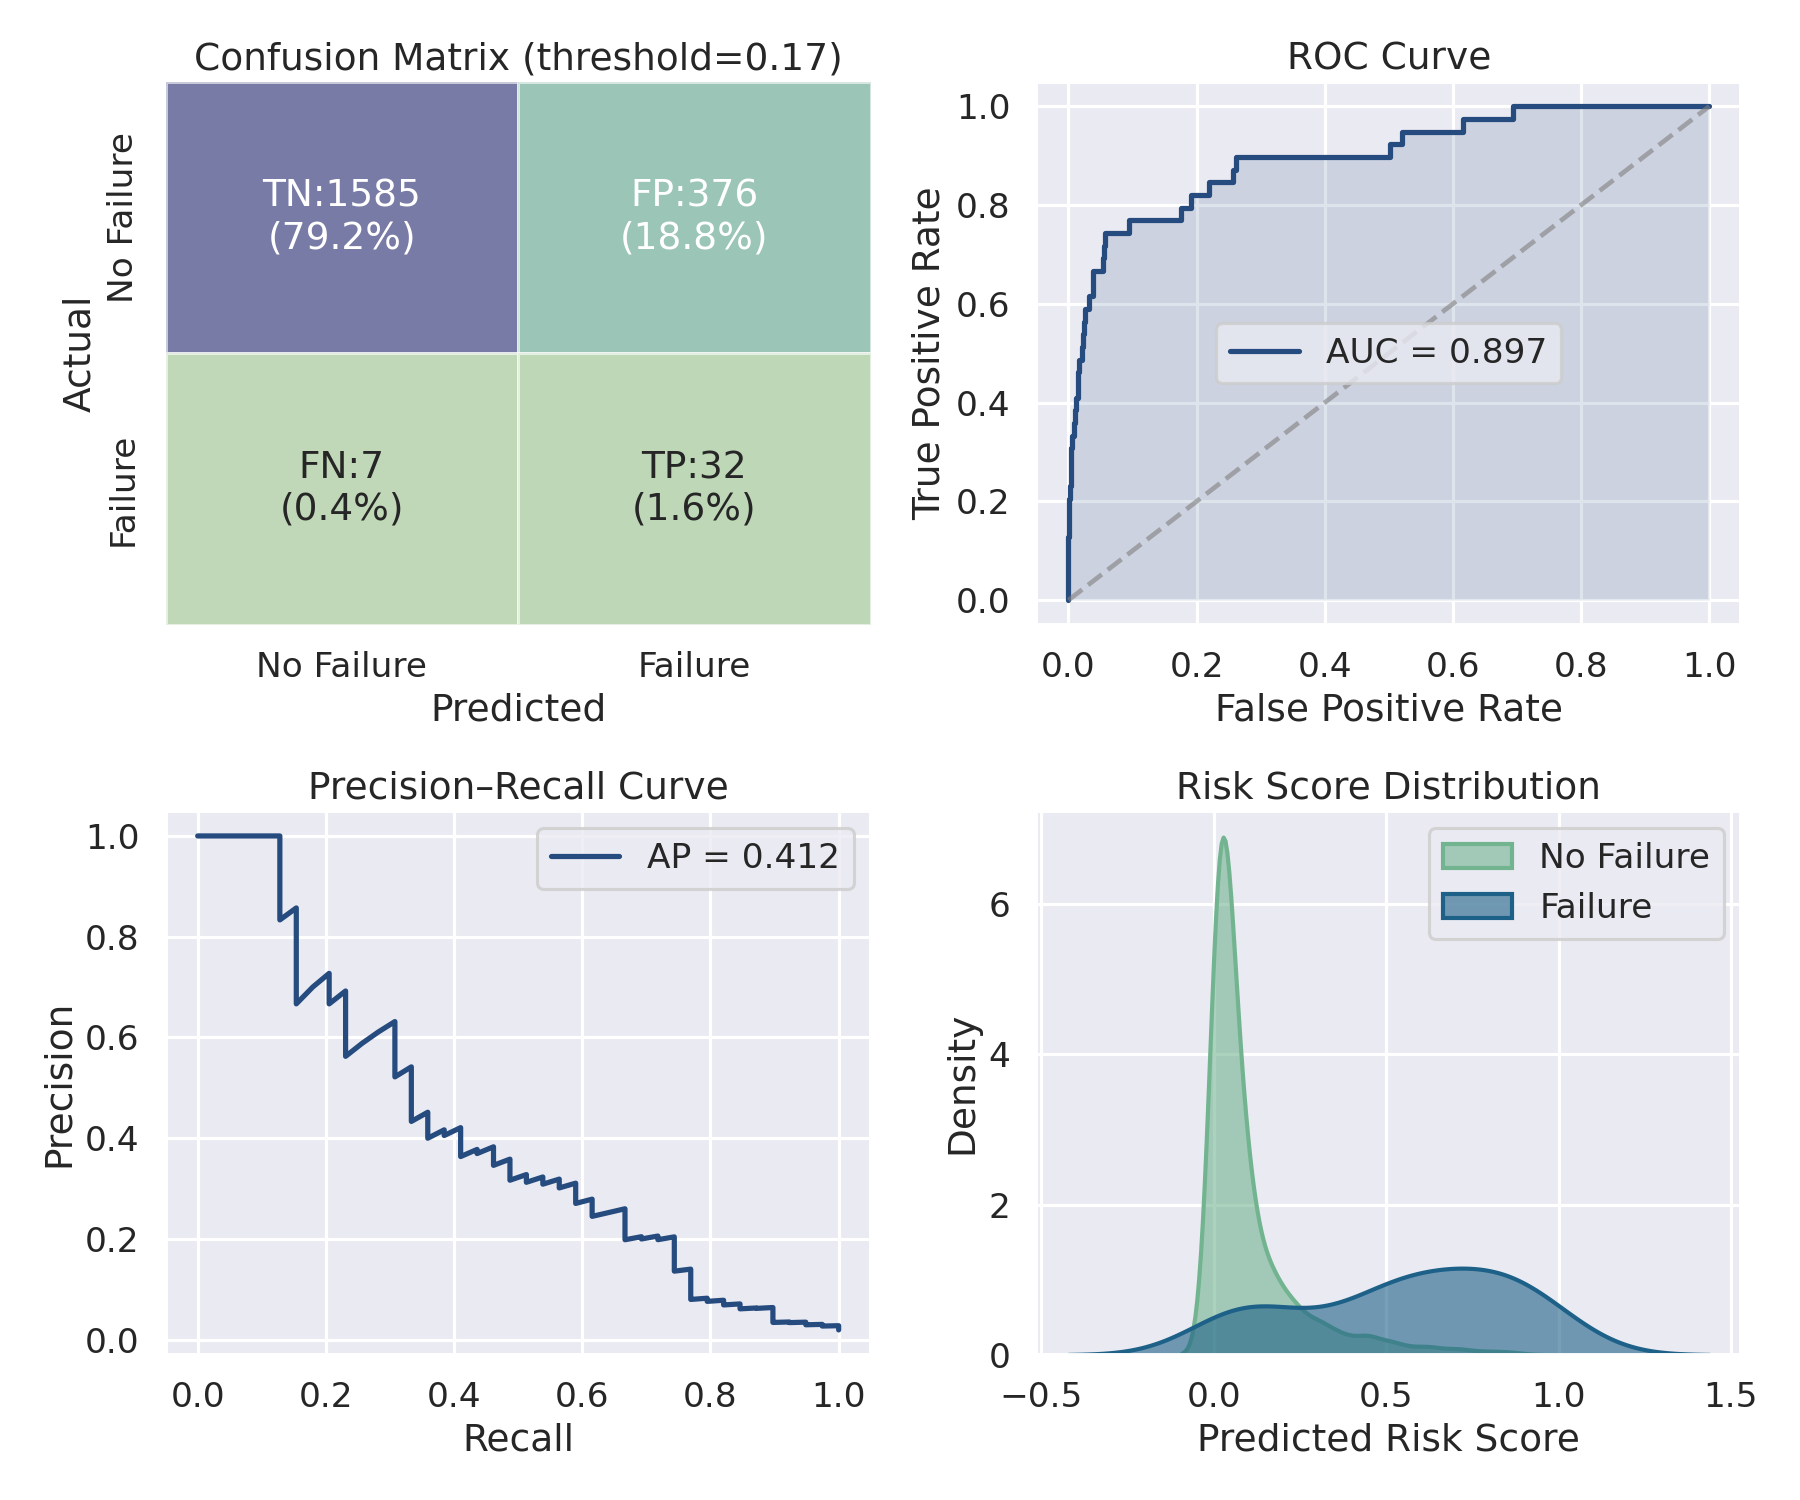
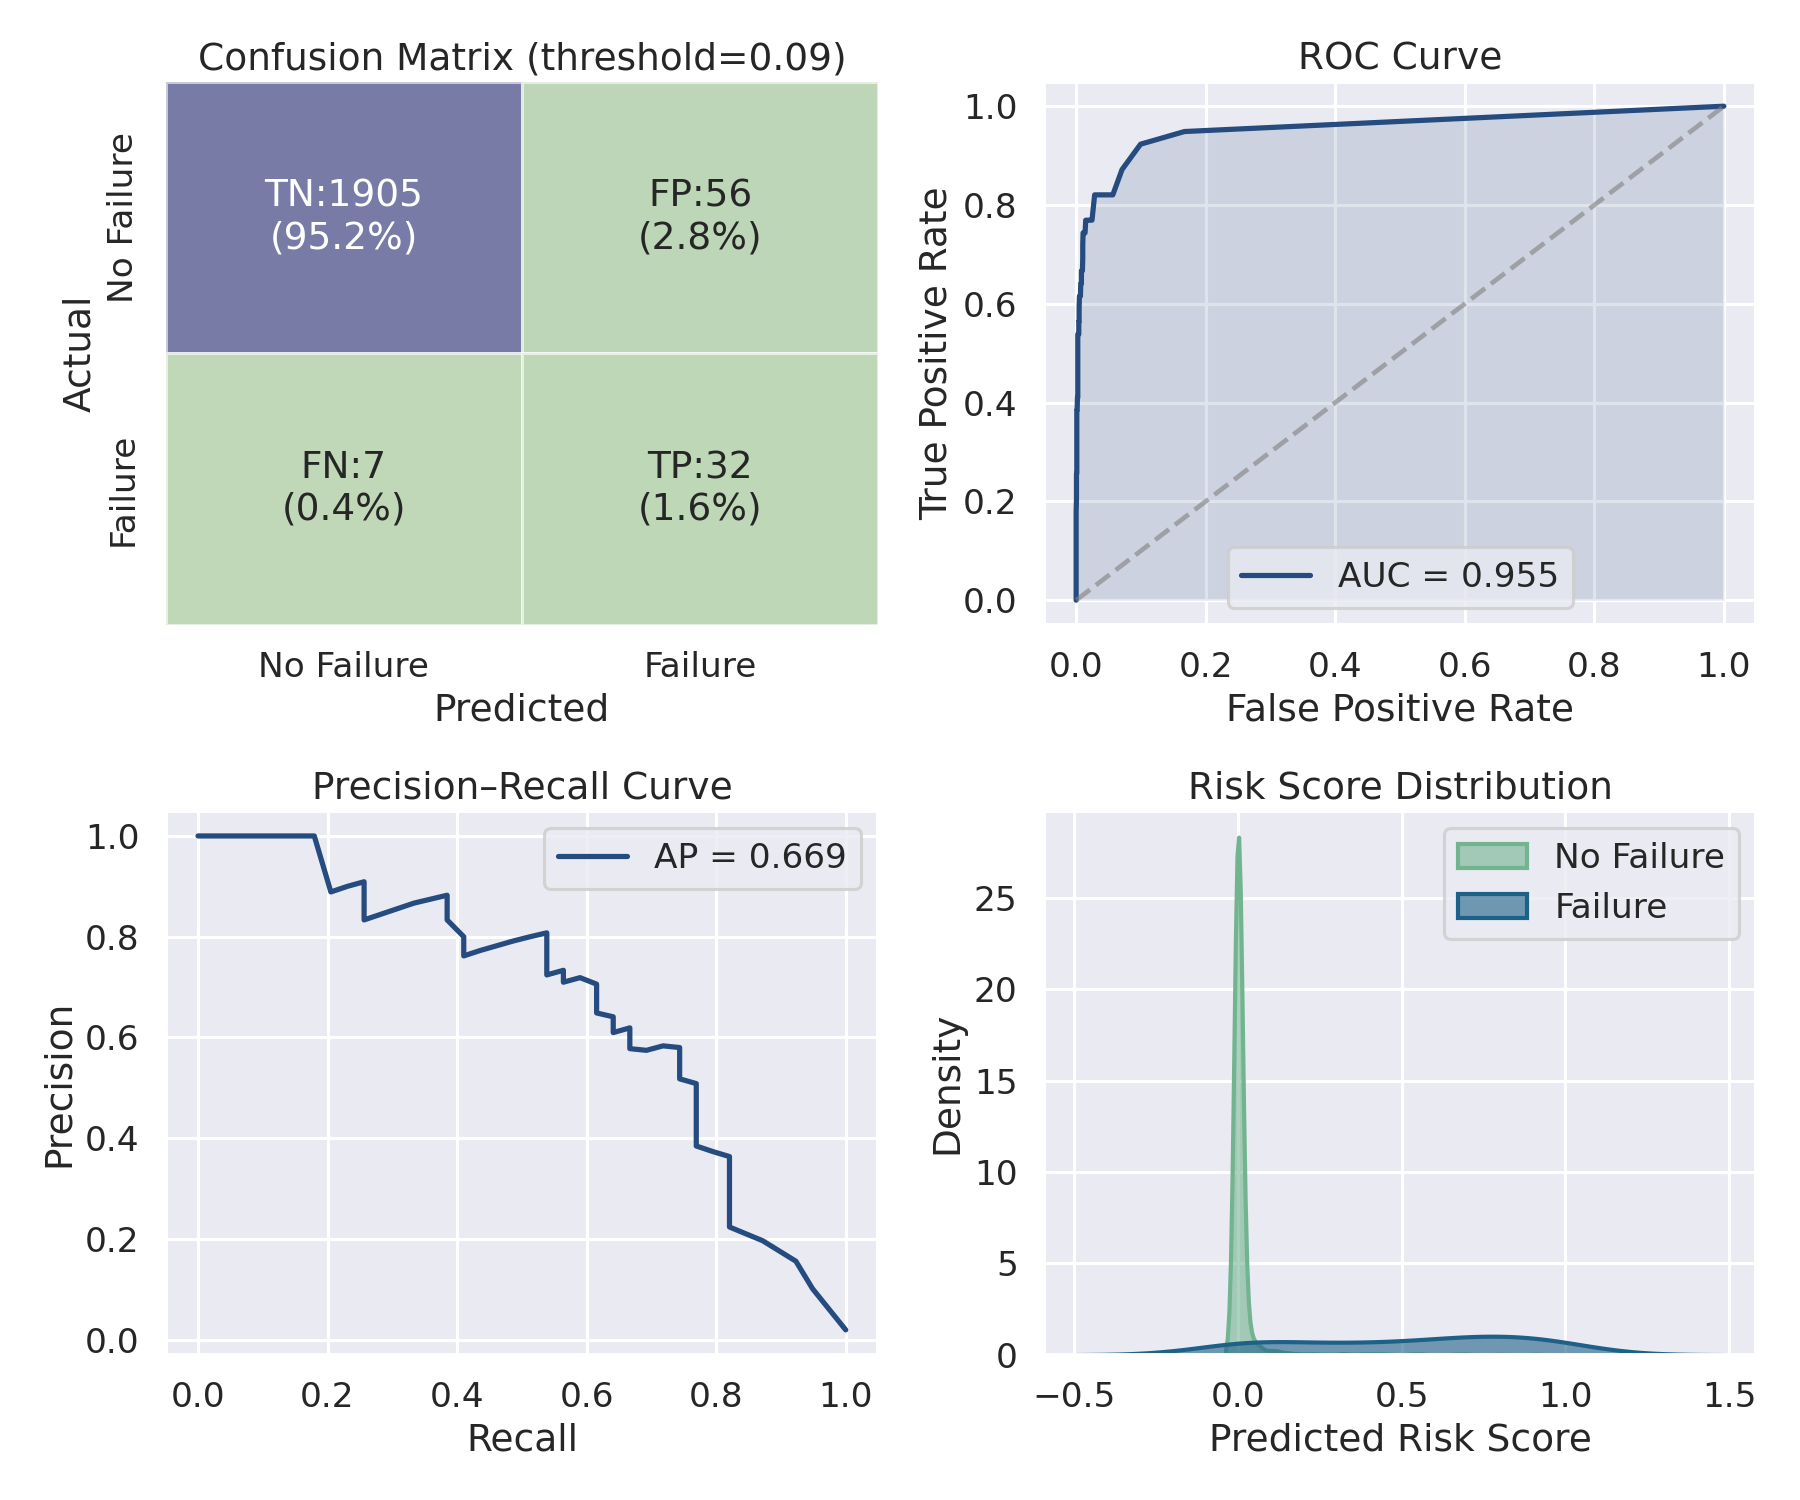
rough layout of the FailureClassificationModel

diff --git a/main.py b/main.py
@@ -1,4 +1,5 @@
 from sklearn.linear_model import LogisticRegression
+from sklearn.ensemble import RandomForestClassifier
 from sklearn.model_selection import RandomizedSearchCV
 from sklearn.preprocessing import StandardScaler
 from sklearn.metrics import roc_curve, roc_auc_score, precision_recall_curve, average_precision_score,confusion_matrix , ConfusionMatrixDisplay
@@ -24,37 +25,53 @@ try:
 except:
     pass
 
-class LogisticClassifier:
-    def __init__(self):
-        self.y = None
-        self.x = None
-        self.y_pred = None
-        self.y_prob = None
-        self.filename = None
-    def dataset(self,filename: str ,target: str, ignore=None):
-        self.filename = filename.rstrip('.csv')
+def dataset(filename: str ,target: str, ignore=None, ):
+        filename_modified, _ = os.path.splitext(filename)
+        del _
         if ignore is None:
             ignore = []
 
         df = pd.read_csv(filename)
 
-        self.y = df[target].astype(int)
-        self.X = df.drop(columns=ignore + [target])
+        y = df[target].astype(int)
+        X = df.drop(columns=ignore + [target])
 
-        mask = self.X.notna().all(axis=1)
-        self.X = self.X.loc[mask].reset_index(drop=True)
-        self.y = self.y.loc[mask].reset_index(drop=True)
+        mask = X.notna().all(axis=1)
+        X = X.loc[mask].reset_index(drop=True)
+        y = y.loc[mask].reset_index(drop=True)
 
-        idx = int(0.8 * len(self.X))
+        idx = int(0.8 * len(X))
 
-        self.X_train = self.X.iloc[:idx]
-        self.y_train = self.y.iloc[:idx]
+        X_train = X.iloc[:idx]
+        y_train = y.iloc[:idx]
 
-        self.X_test  = self.X.iloc[idx:]
-        self.y_test  = self.y.iloc[idx:]
+        X_test  = X.iloc[idx:]
+        y_test  = y.iloc[idx:]
+        
+        return X,y,X_train,y_train,X_test,y_test,filename_modified,df
+
+class RiskEvalModel:
+    def __init__(self,filename,target,ignore=None):
+        self.df = None
+        self.y = None
+        self.x = None 
+        self.X_test = None
+        self.y_test = None
+        self.X_train = None
+        self.y_train = None
+        self.y_pred = None
+        self.y_prob = None
+        self.filename = filename
+        self.target = target
+        if ignore == None:
+            self.ignore = []
+        else:
+            self.ignore = ignore
 
         
     def train_run(self):
+        
+        self.X,self.y,self.X_train,self.y_train,self.X_test,self.y_test,self.filename,self.df=dataset(self.filename,self.target,self.ignore)
         pipe = Pipeline([
             ("scaler", StandardScaler()),
             ("clf", LogisticRegression(
@@ -184,6 +201,159 @@ class LogisticClassifier:
         self.threshold = threshold
         self.y_pred_thr = y_pred_thr
         self.evaluate()
+        
+    def evaluate(self):
+        tn, fp, fn, tp = confusion_matrix(self.y_test, self.y_pred_thr).ravel()
+        print("========== Model Features =========")
+        print(*self.X.columns, sep='\n')
+        print("\n=== Model Evaluation (Test Set) ===")
+        print(f"ROC-AUC score :{self.roc:.3f}")
+        print(f"Threshold used : {self.threshold:.3f}")
+        print(f"TP: {tp} | FP: {fp}")
+        print(f"FN: {fn} | TN: {tn}")
+
+        print("\nRates:")
+        print(f"Recall (TPR) : {tp / (tp + fn):.3f}")
+        print(f"Precision    : {tp / (tp + fp):.3f}")
+        print(f"False PosRate: {fp / (fp + tn):.3f}")
+        
+        print("====================================")
+        gc.collect()
+class FailureClassificationModel:
+    def __init__(self,filename,target,threshold,ignore=None,classifications = None):
+        self.df = None
+        self.y = None
+        self.x = None 
+        self.X_test = None
+        self.y_test = None
+        self.X_train = None
+        self.y_train = None
+        self.y_pred = None
+        self.y_prob = None
+        self.filename = filename
+        self.target = target
+        self.classifications = classifications
+        if ignore == None:
+            self.ignore = []
+        else:
+            self.ignore = ignore
+        if self.classifications == None or self.classifications == []:
+            print('Error classification cannot be empty....')
+        
+    def train_run(self,param):
+        self.X,self.y,self.X_train,self.y_train,self.X_test,self.y_test,self.filename,self.df=dataset(self.filename,self.target,self.ignore)
+        pipe = Pipeline([
+            ("scaler", StandardScaler()),
+            ("clf", RandomForestClassifier())
+        ])
+
+        param_dist = {
+             "min_sample_leave"
+        }
+        pipe.fit(self.X_train,self.y_train)
+        self.y_prob = pipe.predict_proba(self.X_test)[:, 1]
+        self.roc = roc_auc_score(self.y_test, self.y_prob)
+        self.plot(self.roc,0.80)
+    def plot(self,roc,target_recall):
+        
+        palette = sns.color_palette("crest", 10)
+
+        # Dashboard layout
+        layout = [["confusion", "roc"],
+                ["prc", "kde"]]
+
+        fig, axes = plt.subplot_mosaic(layout, figsize=(12, 10))
+
+        #ROC AUC plot
+        fpr, tpr, _ = roc_curve(self.y_test, self.y_prob)
+
+        axes["roc"].plot(fpr, tpr, lw=2.5, label=f"AUC = {roc:.3f}")
+        axes["roc"].plot([0,1], [0,1], ls="--", color="gray", alpha=0.6)
+        axes["roc"].fill_between(fpr, tpr, alpha=0.15)
+
+        axes["roc"].set_xlabel("False Positive Rate")
+        axes["roc"].set_ylabel("True Positive Rate")
+        axes["roc"].set_title("ROC Curve")
+        axes["roc"].legend()
+
+        #KDE plot for Risk Score
+        sns.kdeplot(
+            self.y_prob[self.y_test == 0],
+            fill=True,
+            color=palette[1],
+            alpha=0.6,
+            linewidth=2,
+            label="No Failure",
+            ax=axes["kde"]
+        )
+
+        sns.kdeplot(
+            self.y_prob[self.y_test == 1],
+            fill=True,
+            color=palette[7],
+            alpha=0.6,
+            linewidth=2,
+            label="Failure",
+            ax=axes["kde"]
+        )
+
+        axes["kde"].set_xlabel("Predicted Risk Score")
+        axes["kde"].set_title("Risk Score Distribution")
+        axes["kde"].legend()
+
+        # Precision–Recall Curve
+        precision, recall, thresholds = precision_recall_curve(self.y_test, self.y_prob)
+        ap = average_precision_score(self.y_test, self.y_prob)
+
+        axes["prc"].plot(recall, precision, lw=2.5, label=f"AP = {ap:.3f}")
+        axes["prc"].set_xlabel("Recall")
+        axes["prc"].set_ylabel("Precision")
+        axes["prc"].set_title("Precision–Recall Curve")
+        axes["prc"].legend()
+
+        #Confusion Matrix
+        #target_recall = 0.80
+        idx = np.where(recall >= target_recall)[0][-1]
+        threshold = thresholds[idx]
+
+        y_pred_thr = (self.y_prob >= threshold).astype(int)
+
+        cm = confusion_matrix(self.y_test, y_pred_thr)
+        tn, fp, fn, tp = cm.ravel()
+
+        cm_percent = cm / cm.sum() * 100
+        #labelling each cell of confusion matrix
+        labels = np.array([
+            [f"TN:{tn}\n({cm_percent[0,0]:.1f}%)", f"FP:{fp}\n({cm_percent[0,1]:.1f}%)"],
+            [f"FN:{fn}\n({cm_percent[1,0]:.1f}%)", f"TP:{tp}\n({cm_percent[1,1]:.1f}%)"]
+        ])
+
+        sns.heatmap(
+            cm / cm.max(),   # normalize colors
+            annot=labels,
+            fmt="",
+            cmap="crest",
+            linewidths=0.5,
+            linecolor="white",
+            xticklabels=["No Failure", "Failure"],
+            yticklabels=["No Failure", "Failure"],
+            alpha = 0.6,
+            cbar=False,
+            ax=axes["confusion"],
+        )
+
+        axes["confusion"].set_title(f"Confusion Matrix (threshold={threshold:.2f})")
+        axes["confusion"].set_xlabel("Predicted")
+        axes["confusion"].set_ylabel("Actual")
+        axes["confusion"].grid(False)
+
+        plt.tight_layout()
+        fig.savefig(f"images/Dashboard_{self.filename}.png", dpi=150)
+        plt.show()
+        self.threshold = threshold
+        self.y_pred_thr = y_pred_thr
+        self.evaluate()
+        
     def evaluate(self):
         tn, fp, fn, tp = confusion_matrix(self.y_test, self.y_pred_thr).ravel()
         print("========== Model Features =========")
@@ -202,7 +372,6 @@ class LogisticClassifier:
         print("====================================")
         gc.collect()
 if __name__ == '__main__':
-    model = LogisticClassifier()
-    model.dataset('ai4i2020.csv','Machine failure',['TWF','HDF','PWF','OSF','RNF','UDI','Product ID','Type'])
+    model = FailureClassificationModel('ai4i2020.csv','Machine failure',['RNF','UDI','Product ID','Type'],['TWF','HDF','PWF','OSF'])
     model.train_run()
     
